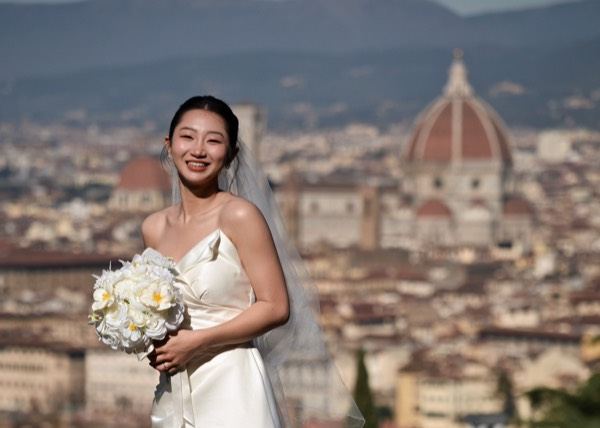
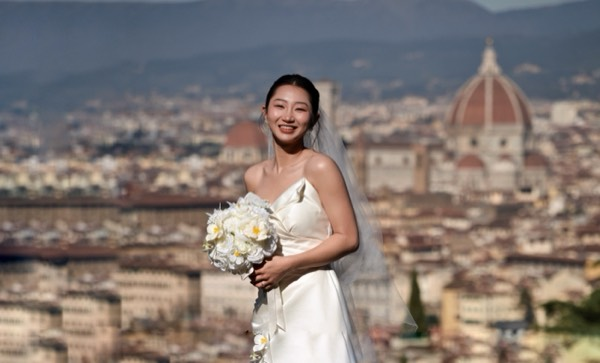
Update bride photo with centered version, remove position shift

diff --git a/index.html b/index.html
@@ -187,7 +187,7 @@
                             </div>
 
                             <div data-aos="fade-left" data-aos-duration="2000" class="pb-1">
-                                <img src="./assets/images/placeholder.webp" data-src="./assets/images/bride.jpg" alt="Minchi Tsai" onclick="undangan.guest.modal(this)" class="img-center-crop rounded-circle border border-3 border-light shadow my-4 mx-auto cursor-pointer" style="object-position: 45% center;">
+                                <img src="./assets/images/placeholder.webp" data-src="./assets/images/bride.jpg" alt="Minchi Tsai" onclick="undangan.guest.modal(this)" class="img-center-crop rounded-circle border border-3 border-light shadow my-4 mx-auto cursor-pointer" >
                                 <h2 class="font-esthetic m-0" style="font-size: 2.125rem;">Minchi Tsai</h2>
                                 <p class="mt-3 mb-0" style="font-size: 1.1rem;">蔡旻淇</p>
                             </div>
